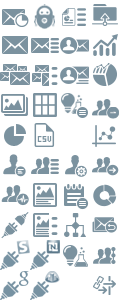
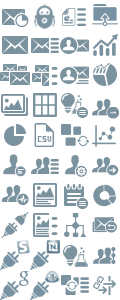
DC gallery implementation

Changed region(s): [[0.5, 0.9, 0.75, 0.99], [0.5, 0.39, 0.75, 0.51]]

diff --git a/apps/bridgemail/editor/MEE.js b/apps/bridgemail/editor/MEE.js
@@ -30,6 +30,7 @@ define(['jquery', 'backbone', 'underscore', 'text!editor/html/MEE.html', 'editor
                     this.isRepeatX = false;
                     this.isRepeatY = false;
                     this.DCDrag = false; // DC ADD
+                    this.isDCTemplateContentSet = false;
                    
                     var mee_view = this;
                     var predefinedControls = [
@@ -831,14 +832,19 @@ define(['jquery', 'backbone', 'underscore', 'text!editor/html/MEE.html', 'editor
                                                 myElement.find(".email-width select.selectEmailSize").val(emailWidthScale);
                                             }
                                         }
+                                        
+                                        
                                         IsStyleActivated = false;
                                         mee.checkForm();
                                         oInitDestroyEvents.InitAll(mainObj);
                                         makeCloneAndRegister();
+                                        
                                     } else {
                                         setTimeout(_.bind(mee.setHTML, mee), 200);
                                     }
                                 }
+                                
+                                
 
                                 mee.checkForm = function () {
                                     if (!options.landingPage)
@@ -5261,8 +5267,9 @@ define(['jquery', 'backbone', 'underscore', 'text!editor/html/MEE.html', 'editor
                                                     }
 
                                                 });
-                                                
-                                                getDCGlobally(args.DynamicVariation.DynamicVariationCode,args.DynamicVariation.DynamicVariationID);
+                                                if(!options.isDcTemplate){
+                                                    getDCGlobally(args.DynamicVariation.DynamicVariationCode,args.DynamicVariation.DynamicVariationID); 
+                                                }
                                                 var isNewCampaign = false;
                                                 //console.log('Local DynamicObj',mee_view.DynamicContentsObj); //DC ADD
                                                 if(meeIframe.find('table[keyword="'+args.ID+'"]').length == 1){
@@ -5756,7 +5763,7 @@ define(['jquery', 'backbone', 'underscore', 'text!editor/html/MEE.html', 'editor
                                     var getPart = keyword ? ("keyword=" + keyword) : "dynamicNumber=" + dynamicNumber;
                                     var dynamicKey = keyword;
                                     var URL = "/pms/io/publish/getDynamicVariation/?" + options._BMSTOKEN + "&type=get&" + getPart;
-                                    if(!mee_view.DCDrag && !options.isTemplate){
+                                    if(!mee_view.DCDrag && !options.isTemplate && !options.isDcTemplate){
                                        URL = "/pms/io/publish/getDynamicVariation/?" + options._BMSTOKEN + "&type=get&" + getPart + "&campaignNumber="+options.camp_id;
                                     }else if(options.isTemplate){
                                        URL = "/pms/io/publish/getDynamicVariation/?" + options._BMSTOKEN + "&type=get&" + getPart+"&isSingle=Y"; 
@@ -6974,6 +6981,10 @@ define(['jquery', 'backbone', 'underscore', 'text!editor/html/MEE.html', 'editor
                                                     this.DestroyPluginsEvents(oHtml);
                                                 }
                                             }
+                                            if(options.isDcTemplate && !mee_view.isDCTemplateContentSet){
+                                                console.log('We are getting started again',options.dynamicDataGallery);
+                                                mee.generateDynamicContentGallery(options.dynamicDataGallery);
+                                            }
                                             this.InitializePluginsEvents(oHtml);
 
                                             this.ReInitializeDragDropHoverAll(oHtml);
@@ -7894,6 +7905,37 @@ define(['jquery', 'backbone', 'underscore', 'text!editor/html/MEE.html', 'editor
                                         }
                                     });
                                 }
+                                mee.generateDynamicContentGallery = function(e){
+                                   
+                                        var keyword = e.keyword;
+                                        var parentTable = meeIframe.find('.mainContentHtmlGrand .mainContentHtml');
+                                        var dcWrapper = $('<li class="csHaveData csDynamicData"></li>');
+                                        var oControl = new Object();
+                                        var args = {
+                                            droppedElement: dcWrapper,
+                                            // event: event,
+                                            // ui: ui,
+                                            predefinedControl: null,
+                                            buildingBlock: null
+                                        };
+                                        parentTable.append(dcWrapper);
+                                        var predefinedControl = myElement.find(".divDCTemplate").html();
+                                        // variation = $(predefinedControl);
+                                        // oControl.Html = variation;
+                                        oControl.Html = $(predefinedControl);
+                                        oControl.Type = predefinedControl.type;
+                                        args.predefinedControl = oControl;
+
+                                        args.droppedElement.html(oControl.Html);
+
+                                        args.ID = keyword;
+                                        args.DynamicVariation = loadDynamicVariationFromServer(args.ID);
+                                        InitializeDynamicControl(args);
+                                        mee_view.isDCTemplateContentSet = true;
+                                        console.log(args.predefinedControl.Html);
+                                        //variation.replaceWith(args.predefinedControl.Html.clone(true, true));
+                                           
+                                }
                                 mee._LoadBuildingBlocks = function (args) {
 
                                     if (args == null) {
@@ -8812,6 +8854,8 @@ define(['jquery', 'backbone', 'underscore', 'text!editor/html/MEE.html', 'editor
                         previewdesignTemplateCallback: this.options.previewCallback,
                         textVersion: this.options.text,
                         formCallBack: this.options.formAttach,
+                        isDcTemplate: this.options.isDcTemplate,
+                        dynamicDataGallery : this.options.dynamicData,
                         formid: this.options.formid,
                         _app: this.app,
                         isNewLP : this.options.isNewLP ? this.options.isNewLP : false,
@@ -8884,7 +8928,8 @@ define(['jquery', 'backbone', 'underscore', 'text!editor/html/MEE.html', 'editor
                             var contentURL = "";
                             var postData;
                             // DC ADD
-                            if(gloFlag){
+                            debugger;
+                            if(gloFlag || _self.isDcTemplate){
                                 contentURL = "/pms/io/publish/saveDynamicVariation/?" + BMSTOKEN + "&type=newContent&dynamicNumber=" + dynamicNumber+"&contentNumber="+content.DynamicContentID;
                                 postData = {"campaignSubject":content.Label,"contents":content.InternalContents,"contentLabel":content.Label,"isDefault":(content.IsDefault =="Y"? "Y" : "N")}
                             }else if(this.isTemplate){
@@ -9073,7 +9118,9 @@ define(['jquery', 'backbone', 'underscore', 'text!editor/html/MEE.html', 'editor
                                 postObj["isSingle"] = "Y";
                             }
                             else if(!gloFlag && !this.isTemplate){
-                                contentURL = "/pms/io/publish/saveDynamicVariation/?" + BMSTOKEN+"&type=updateContents&dynamicNumber="+dynamicNumber+"&campaignNumber="+this.camp_id;
+                                if(!this.isDcTemplate){
+                                   contentURL = "/pms/io/publish/saveDynamicVariation/?" + BMSTOKEN+"&type=updateContents&dynamicNumber="+dynamicNumber+"&campaignNumber="+this.camp_id;
+                                }
                                 postObj={};
                                 
                                 // making postObj content rich

diff --git a/apps/bridgemail/dctemplates/dctemplate_row.js b/apps/bridgemail/dctemplates/dctemplate_row.js
@@ -195,10 +195,11 @@ define(['text!dctemplates/html/template_row.html'],
                         __dialog.saveCallBack(_.bind(mPage.copyTemplate, mPage));
                     //}, this));
                 },*/
-                updateTemplate: function (tempNum, isTotal) {
+                updateTemplate: function () {
                     var _this = this.parent;
                     var self = this;
-                    if (typeof (tempNum) === "object") {
+                    this.getDynamicBlock();
+                    /*if (typeof (tempNum) === "object") {
                         _this.template_id = this.model.get('templateNumber.encode');
                     } else {
                         _this.template_id = tempNum;
@@ -231,8 +232,24 @@ define(['text!dctemplates/html/template_row.html'],
                     });
                     this.parent.$el.find('#new_template').unbind("click"); // Unbind the add Tile event for reattach
                     this.parent.templateTotalFlag = true;
-                    this.parent.loadTemplates(this.parent.offset, isTotal);
+                    this.parent.loadTemplates(this.parent.offset, isTotal);*/
                 },
+                getDynamicBlock : function(fieldText, _json){
+                       var _this = this;
+                       var _parent = this.parent;
+                       var URL = "/pms/io/publish/getDynamicVariation/?BMS_REQ_TK="+this.app.get('bms_token')+"&isGallery=Y&type=get&dynamicNumber="+this.model.get('dynamicNumber.encode');
+                       jQuery.getJSON(URL,  function(tsv, state, xhr){
+                           if(xhr && xhr.responseText){                                                       
+                                var _json = jQuery.parseJSON(xhr.responseText);                                                                                               
+                                if(_this.app.checkError(_json)){
+                                    return false;
+                                 }
+                                 _parent.dynamicData = _json;
+                                 _parent.loadMeeForDynamic(_json.label);
+                               
+                           }
+                     }).fail(function() { console.log( "error in loading popular tags for templates" ); });
+                   },
                 deleteTemplate: function () {
                     this.app.showAlertDetail({heading: 'Confirm Deletion',
                         detail: "Are you sure you want to delete this '"+this.model.get('label')+"' block?",

diff --git a/css/bridgemail.css b/css/bridgemail.css
@@ -218,6 +218,7 @@ i.icon{ float:right; margin:0 !important; width:35px; height:35px;}
 .icon.copy-header {   background: url("../img/copy48.png") no-repeat scroll center center ;}
 .icon.template {   background: url("../img/template.png") no-repeat scroll center center ;}
 .icon.template_gallery {   background: url("../img/template2.png") no-repeat scroll center center ;}
+.icon.dctemplate {   background: url("../img/dc_block_icon.png") no-repeat scroll center center ;}
 .icon.dlgformwizard {   background: url("../img/formwizard-w.png") no-repeat scroll center center ;}
 .icon.dlgsnippet {   background: url("../img/snippet.png") no-repeat scroll center center ; width:25px !important;height: 23px !important;}
 .icon.dlgworkflow {   background: url("../img/workflow30.png") no-repeat scroll center center ;}

diff --git a/css/changes.css b/css/changes.css
@@ -3762,6 +3762,10 @@ ul.autobot-headbadge li.clickable_badge a:hover{
 .no-tilt .watermark_tilt{
     background: none !important;
 }
+.dctemplate-tilt .watermark_tilt {
+    background-position: 6px -980px;
+}
+
 /*-------------------------------
     Styling Of One to One Email 
 --------------------------------*/
@@ -5672,6 +5676,10 @@ a#drop4 { background-color:#fff; }
 .wtab-graphiclisting {
     background: url("../img/ws-icons.png") no-repeat scroll 0 -90px rgba(0, 0, 0, 0);
 }
+.wtab-mydctemplates {
+    background-position: -60px -125px;
+}
+
 ::-webkit-input-placeholder { color:#b4b4b4!important; }
 ::-moz-placeholder { color:#b4b4b4!important; } /* firefox 19+ */
 :-ms-input-placeholder { color:#b4b4b4!important; } /* ie */

diff --git a/apps/bridgemail/editor/html/MEE.html b/apps/bridgemail/editor/html/MEE.html
@@ -267,7 +267,7 @@
                     <div class="clearfix">
                         <div id="DCResultDiv" class="no-results"  style="display: none;"> No results Found </div>
                     </div>
-
+                    <% if(!options.isDCTemplate){ %>
                     <div class="clearfix">
                         <ul class="b-blocks">
                             <li class="draggableControl ui-draggable newblock" data-type="dynamicContentContainer" data-isnew="true" draggable="true">
@@ -282,6 +282,7 @@
 
                         </ul>
                     </div>
+                    <% } %>
                 </div>
             </div>
             <% } %>
